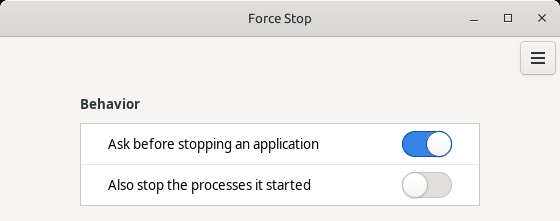
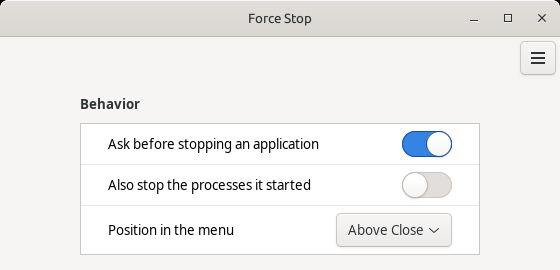
Place Force Stop above Close by default and add menu position setting

diff --git a/force-stop@enisn/extension.js b/force-stop@enisn/extension.js
@@ -132,6 +132,7 @@ class ForceStop {
         // Kept for as long as the settings could not be read.
         this.confirm = true;
         this.killChildren = false;
+        this.menuPosition = 'above-close';
         this._closingMenu = null;
         this._dialog = null;
         this._menuPrototype = null;
@@ -207,8 +208,12 @@ class ForceStop {
 
         // The stock menu ends its window controls with a separator, so keep Force Stop in that block.
         const items = menu._getMenuItems();
-        const lastItem = items[items.length - 1];
-        menu.addMenuItem(item, lastItem instanceof PopupMenu.PopupSeparatorMenuItem ? items.length - 1 : undefined);
+        let insertAt = items.length;
+        if (insertAt > 0 && items[insertAt - 1] instanceof PopupMenu.PopupSeparatorMenuItem)
+            insertAt--;
+        if (this.menuPosition !== 'below-close' && insertAt > 0)
+            insertAt--;
+        menu.addMenuItem(item, insertAt);
     }
 
     // Signals only reach processes of our own user, so the item is greyed out for any other, such
@@ -290,6 +295,7 @@ function enable() {
     settings = new Settings.ExtensionSettings(forceStop, UUID);
     settings.bind('confirm', 'confirm');
     settings.bind('kill-children', 'killChildren');
+    settings.bind('menu-position', 'menuPosition');
     return forceStop;
 }
 

diff --git a/tests/nested_test.py b/tests/nested_test.py
@@ -285,10 +285,11 @@ class Nested:
 
     def setting(self, key):
         return json.loads(self.ev(
-            'return JSON.stringify({confirm: extension().confirm, "kill-children": extension().killChildren});'))[key]
+            'return JSON.stringify({confirm: extension().confirm, "kill-children": extension().killChildren,'
+            ' "menu-position": extension().menuPosition});'))[key]
 
     def wait_setting(self, key, value):
-        wait_until(lambda: self.setting(key) is value, 'the %s setting to reach the extension' % key)
+        wait_until(lambda: self.setting(key) == value, 'the %s setting to reach the extension' % key)
 
     def read_settings(self):
         with open(self.settings_file) as handle:
@@ -382,9 +383,10 @@ def run_tests(n):
         'modal: Main.modalActorFocusStack.length});'))
     check(loaded == {'object': True, 'running': True, 'modal': 0},
           'the shell enabled the extension and holds no modal')
-    check(n.read_settings() == {'confirm': True, 'kill-children': False} and
-          n.setting('confirm') is True and n.setting('kill-children') is False,
-          'the settings are installed with their defaults: confirmation on, child processes off')
+    check(n.read_settings() == {'confirm': True, 'kill-children': False, 'menu-position': 'above-close'} and
+          n.setting('confirm') is True and n.setting('kill-children') is False and
+          n.setting('menu-position') == 'above-close',
+          'the settings are installed with their defaults: confirmation on, child processes off, above Close')
 
     # First right-click ever: the window list creates its menu lazily, so the hook must catch it.
     first = n.launch('One')
@@ -392,8 +394,8 @@ def run_tests(n):
     check(not n.state(first.pid)['menu'], 'the window list creates its right-click menu lazily')
     labels = n.open_menu(first.pid)
     check(labels is not None and 'Force Stop' in labels and
-          labels.index('Force Stop') == labels.index('Close') + 1,
-          'a freshly created right-click menu lists Force Stop right after Close')
+          labels.index('Force Stop') == labels.index('Close') - 1,
+          'a freshly created right-click menu lists Force Stop right above Close')
     n.shot('01-menu.png')
     check(n.item(first.pid)['sensitive'], 'Force Stop is clickable for a window of one of our own processes')
 
@@ -431,14 +433,14 @@ def run_tests(n):
     check(current['dialog'] is None and current['modal'] == 0,
           'the dialog is gone and no modal is left behind after the kill')
 
-    # Several windows of one application: the menu offers Close all, and Force Stop follows it.
+    # Several windows of one application: the menu offers Close all, and Force Stop sits above it.
     second, third = n.launch('Two'), n.launch('Three')
     wait_until(lambda: n.state(third.pid)['group'], 'the second window in the window list')
     time.sleep(1)
     labels = n.open_menu(third.pid)
     check(labels is not None and 'Close all' in labels and
-          labels.index('Force Stop') == labels.index('Close all') + 1,
-          'with several windows, Force Stop follows Close all: %s' % labels)
+          labels.index('Force Stop') == labels.index('Close all') - 1,
+          'with several windows, Force Stop sits right above Close all: %s' % labels)
     n.shot('04-menu-several-windows.png')
     target = n.state(third.pid)['targetPid']
     victim, survivor = (second, third) if target == second.pid else (third, second)
@@ -521,9 +523,22 @@ def run_tests(n):
             os.kill(pid, signal.SIGKILL)
     exit_status(tree)
 
-    n.open_settings('-', 'kill-children=off', 'confirm=on')
+    n.open_settings('-', 'menu-position=below-close')
+    n.wait_setting('menu-position', 'below-close')
+    below = n.launch('Below')
+    wait_until(lambda: n.state(below.pid)['group'], 'the window for below-close position check')
+    labels = n.open_menu(below.pid)
+    check(labels is not None and 'Force Stop' in labels and
+          labels.index('Force Stop') == labels.index('Close') + 1,
+          'with menu-position set to below-close, Force Stop sits right below Close')
+    n.close_menu(below.pid)
+    below.kill()
+    wait_until(lambda: not n.state(below.pid)['group'], 'the window list to drop the below-close window')
+
+    n.open_settings('-', 'kill-children=off', 'confirm=on', 'menu-position=above-close')
     n.wait_setting('kill-children', False)
-    check(n.read_settings() == {'confirm': True, 'kill-children': False},
+    n.wait_setting('menu-position', 'above-close')
+    check(n.read_settings() == {'confirm': True, 'kill-children': False, 'menu-position': 'above-close'},
           'the defaults can be restored from the settings page')
 
     # Disabling removes the item from menus that already exist and from menus created afterwards.

diff --git a/tests/settings_window.py b/tests/settings_window.py
@@ -59,13 +59,23 @@ def main():
         step_flip()
 
     def step_flip():
-        # The switches come in the order in which the schema lists them.
+        # Widgets come in the order in which the schema lists them.
         with open(os.path.join(page.xlet_dir, 'settings-schema.json')) as handle:
-            keys = [key for key, setting in json.load(handle).items() if setting.get('type') == 'switch']
+            schema = json.load(handle)
+        switch_keys = [key for key, setting in schema.items() if setting.get('type') == 'switch']
+        combo_keys = [key for key, setting in schema.items() if setting.get('type') == 'combobox']
         switches = [widget for widget in widgets(page.window) if isinstance(widget, Gtk.Switch)]
+        combos = [widget for widget in widgets(page.window) if isinstance(widget, Gtk.ComboBox)]
         for change in changes:
-            key, value = change.split('=')
-            switches[keys.index(key)].set_active(value == 'on')
+            key, value = change.split('=', 1)
+            if key in switch_keys:
+                switches[switch_keys.index(key)].set_active(value == 'on')
+            elif key in combo_keys:
+                combo = combos[combo_keys.index(key)]
+                for row in combo.get_model():
+                    if row[0] == value:
+                        combo.set_active_iter(row.iter)
+                        break
         later(0.8, lambda: page.window.destroy())
 
     page = module.MainWindow(types.SimpleNamespace(type='extension', uuid=uuid, id=None, tab=None))

diff --git a/tools/make_pot.py b/tools/make_pot.py
@@ -45,6 +45,10 @@ def main():
         for field in ('description', 'tooltip'):
             if field in setting:
                 body += entry('settings-schema.json->%s->%s' % (key, field), setting[field])
+        if 'options' in setting:
+            for label, value in setting['options'].items():
+                if value != 'custom':
+                    body += entry('settings-schema.json->%s->options' % key, label)
     metadata = json.loads((XLET / 'metadata.json').read_text())
     body += entry('metadata.json->description', metadata['description'])
 

diff --git a/README.md b/README.md
@@ -2,11 +2,11 @@
 
 Adds a **Force Stop** item to the right-click menu of the Grouped window list, for applications that no longer respond to Close.
 
-![Force Stop below Close in the window list menu](screenshots/menu.png)
+![Force Stop above Close in the window list menu](screenshots/menu.png)
 
 ## What it does
 
-- **Force Stop sits right below Close.** When an application has several windows, it sits below *Close all* instead.
+- **Force Stop sits right above Close by default.** When an application has several windows, it sits above *Close all* instead, so *Close* stays at the bottom of the menu. This can be switched to below *Close* in Settings.
 - **It asks first.** The confirmation names the application and the process that is about to be stopped. `Escape` cancels it.
 - **Optionally, it stops the processes the application started too.** This is off by default.
 - **It knows when it cannot help.** The item is greyed out for windows without a process ID, and for processes of another user such as an application running as root.
@@ -25,8 +25,9 @@ System Settings → Extensions → **Force Stop** → *Configure*.
 | --- | --- | --- |
 | Ask before stopping an application | On | Shows the confirmation dialog. Turn it off to stop an application the moment you click Force Stop. |
 | Also stop the processes it started | Off | Stops the helper processes of the application as well. This includes anything launched from its built-in terminal, such as a local web server or a database. |
+| Position in the menu | Above Close | Place Force Stop above Close so Close stays at the bottom, or below Close at the very bottom. |
 
-Changes take effect at once. *More options → Reset to defaults* restores both.
+Changes take effect at once. *More options → Reset to defaults* restores all settings.
 
 ## Requirements
 
@@ -57,7 +58,7 @@ The window list is changed in memory only. No file of Cinnamon is touched. The e
 python3 tests/nested_test.py
 ```
 
-This starts a private Cinnamon on Xephyr, with its own session bus, settings and extension directory, and drives it with real clicks. Its 31 checks cover the menu, the confirmation dialog, both settings, the process tree, and disabling and enabling. It needs `Xephyr`, `xdotool`, `zenity`, `xmessage` and ImageMagick.
+This starts a private Cinnamon on Xephyr, with its own session bus, settings and extension directory, and drives it with real clicks. Its 32 checks cover the menu, the confirmation dialog, all settings, the process tree, and disabling and enabling. It needs `Xephyr`, `xdotool`, `zenity`, `xmessage` and ImageMagick.
 
 A window titled "Force Stop test" appears for about three minutes. Leave it alone: Xephyr passes clicks on it into the nested desktop. Screenshots and logs of the last run end up in `tests/artifacts/`.
 
